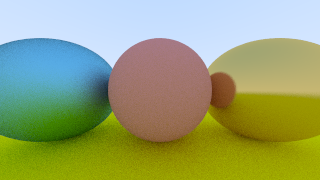
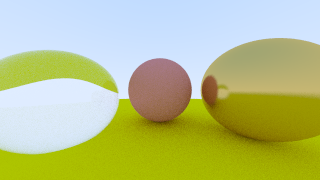
dielectric material

diff --git a/src/material.rs b/src/material.rs
@@ -1,9 +1,16 @@
 #![allow(dead_code)]
 
+use crate::common::*;
 use crate::ray::Ray;
 use crate::hittable::HitRecord;
 use crate::vec::Vec3;
 
+
+pub fn schlick(cosine: f32, ref_idx: f32) -> f32 {
+    let r0 = (1. - ref_idx) / (1. + ref_idx);
+    let r0 = r0 * r0;
+    return r0 + (1. - r0) * f32::powi(1. - cosine, 5);
+}
 
 
 #[derive(Debug, Copy, Clone)]
@@ -50,11 +57,31 @@ impl From<MetalMaterial> for Material {
 }
 
 
+#[derive(Debug, Copy, Clone)]
+pub struct DielectricMaterial {
+    pub ref_idx: f32
+}
+
+impl DielectricMaterial {
+    pub fn new(ref_idx: f32) -> DielectricMaterial {
+        DielectricMaterial {
+            ref_idx
+        }
+    }
+}
+
+impl From<DielectricMaterial> for Material {
+    fn from(v: DielectricMaterial) -> Material {
+        Material::DielectricMaterial(v)
+    }
+}
+
 
 #[derive(Debug, Copy, Clone)]
 pub enum Material {
     LambertianMaterial(LambertianMaterial),
-    MetalMaterial(MetalMaterial)
+    MetalMaterial(MetalMaterial),
+    DielectricMaterial(DielectricMaterial)
 }
 
 impl Material {
@@ -74,6 +101,33 @@ impl Material {
                 let attenuation = albedo;
         
                 return (Vec3::dot(scattered.direction, rec.normal) > 0., scattered, attenuation)
+            },
+
+            Material::DielectricMaterial(DielectricMaterial { ref_idx }) => {
+                let attenuation = Vec3::new(1., 1., 1.);
+                let etai_over_etat = if rec.front_face { 1.0 / ref_idx } else { ref_idx };
+
+                let direction = ray.direction.normalize();
+
+                let cos_theta = f32::min(Vec3::dot(-direction, rec.normal), 1.);
+                let sin_theta = f32::sqrt(1. - cos_theta * cos_theta);
+
+                if etai_over_etat * sin_theta > 1. {
+                    let reflected = direction.reflect(rec.normal);
+                    let scattered = Ray::new(rec.point, reflected);
+                    return (true, scattered, attenuation);
+                }
+
+                let reflect_prob = schlick(cos_theta, etai_over_etat);
+                if random_f(0., 1.) < reflect_prob {
+                    let reflected = direction.reflect(rec.normal);
+                    let scattered = Ray::new(rec.point, reflected);
+                    return (true, scattered, attenuation);
+                }
+
+                let refracted = direction.refract(rec.normal, etai_over_etat);
+                let scattered = Ray::new(rec.point, refracted);
+                return (true, scattered, attenuation);
             }
         }
     }

diff --git a/src/main.rs b/src/main.rs
@@ -20,12 +20,13 @@ use camera::Camera;
 mod material;
 use material::LambertianMaterial;
 use material::MetalMaterial;
+use material::DielectricMaterial;
 
 use std::time::Instant;
 
 fn create_objects(world: &mut HittableList) {
     // centered lambertian material sphere
-    let origin = Vec3::new(0., 0., -1.);
+    let origin = Vec3::new(0., 0., -1.5);
     let radius = 0.5;
     let albedo = Vec3::new(0.7, 0.3, 0.3);
     let material = LambertianMaterial::new(albedo).into();
@@ -48,11 +49,9 @@ fn create_objects(world: &mut HittableList) {
 
     
     // right metal material ball
-    let origin = Vec3::new(-1., 0., -1.);
+    let origin = Vec3::new(-1., -0.1, -1.);
     let radius = 0.5;
-    let albedo = Vec3::new(0.2, 0.6, 0.8);
-    let fuzz = 0.9;
-    let material = MetalMaterial::new(albedo, fuzz).into();
+    let material = DielectricMaterial::new(1.7).into();
     world.add(Sphere::new(origin, radius, material).into());
 }
 
@@ -61,7 +60,7 @@ fn ray_color(ray: Ray, world: &HittableList, depth: u32) -> Vec3 {
         return Vec3::zero();
     }
 
-    match world.hit(ray, 0.001, 999.) {
+    match world.hit(ray, 0.001, 99999.) {
         Some(r) => {
             let (valid, scattered, attenuation) = r.material.scatter(ray, r);
             if valid { return attenuation * ray_color(scattered, &world, depth-1) } else { return Vec3::new(0., 0., 0.) };

diff --git a/src/vec.rs b/src/vec.rs
@@ -75,6 +75,13 @@ impl Vec3 {
     pub fn reflect(self, n: Vec3) -> Vec3 {
         return self - 2. * Vec3::dot(self, n) * n;
     }
+
+    pub fn refract(self, n: Vec3, etai_over_etat: f32) -> Vec3 {
+        let cos_theta = Vec3::dot(-self, n);
+        let r_out_parallel = etai_over_etat * (self + cos_theta * n);
+        let r_out_perp = -f32::sqrt(1. - r_out_parallel.length_squared()) * n;
+        return r_out_parallel + r_out_perp;
+    }
 }
 
 ///-vector
